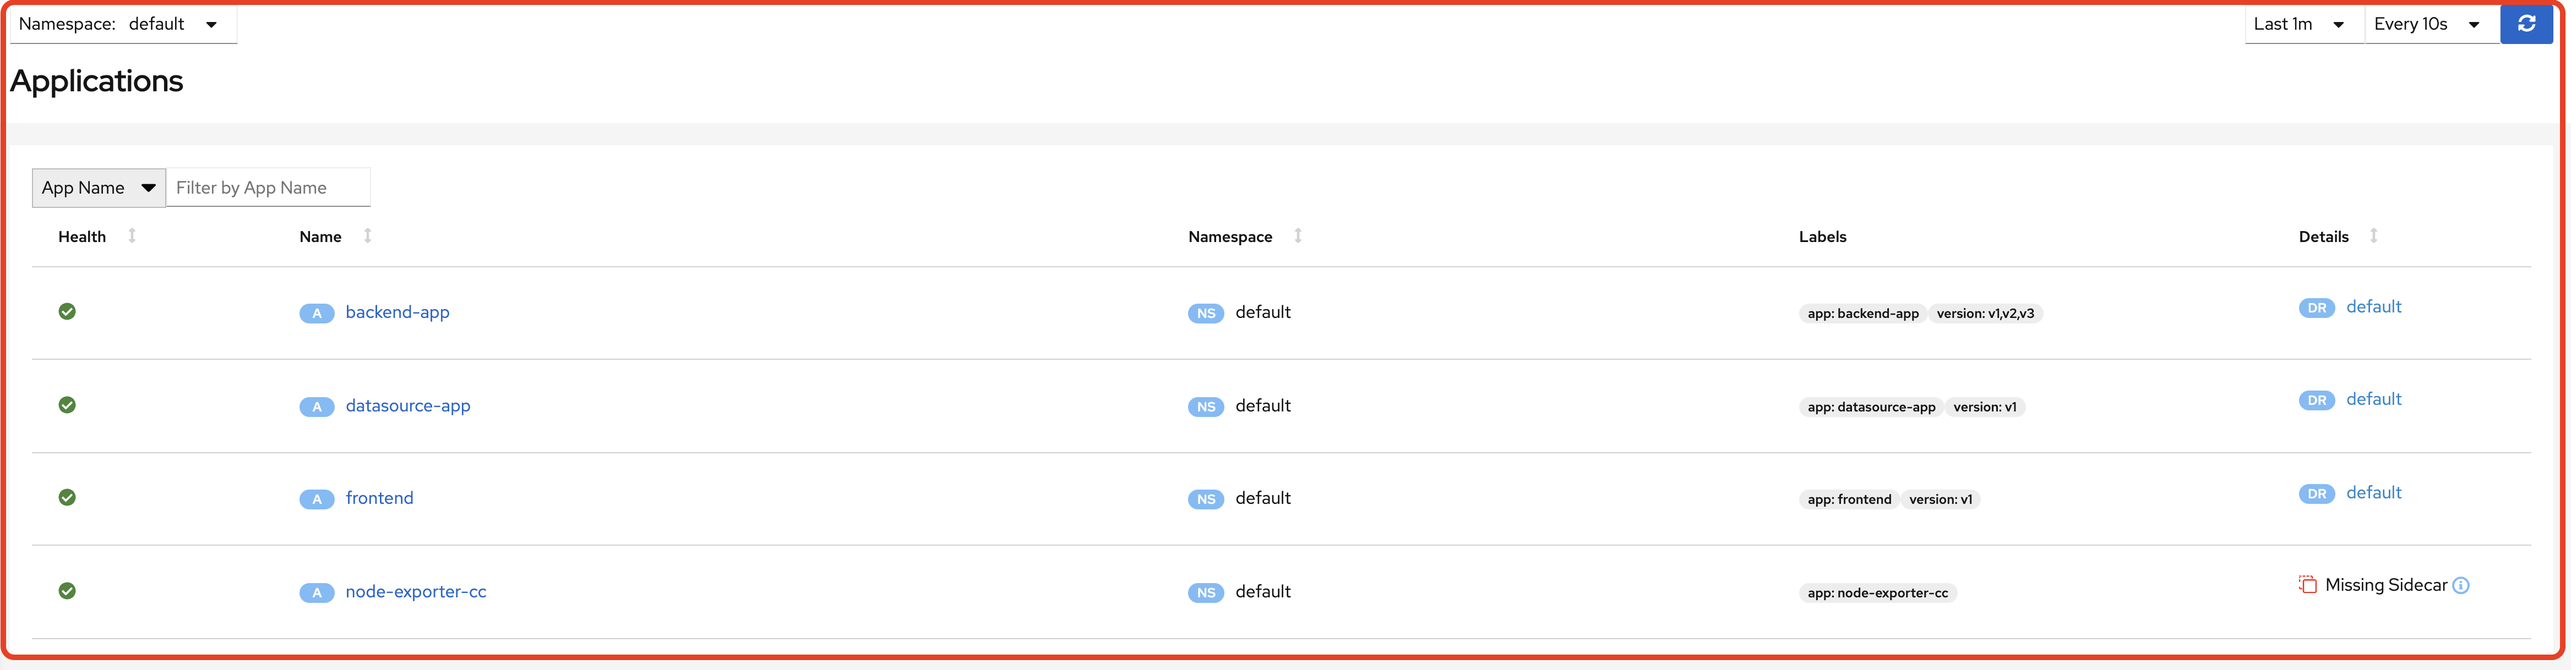
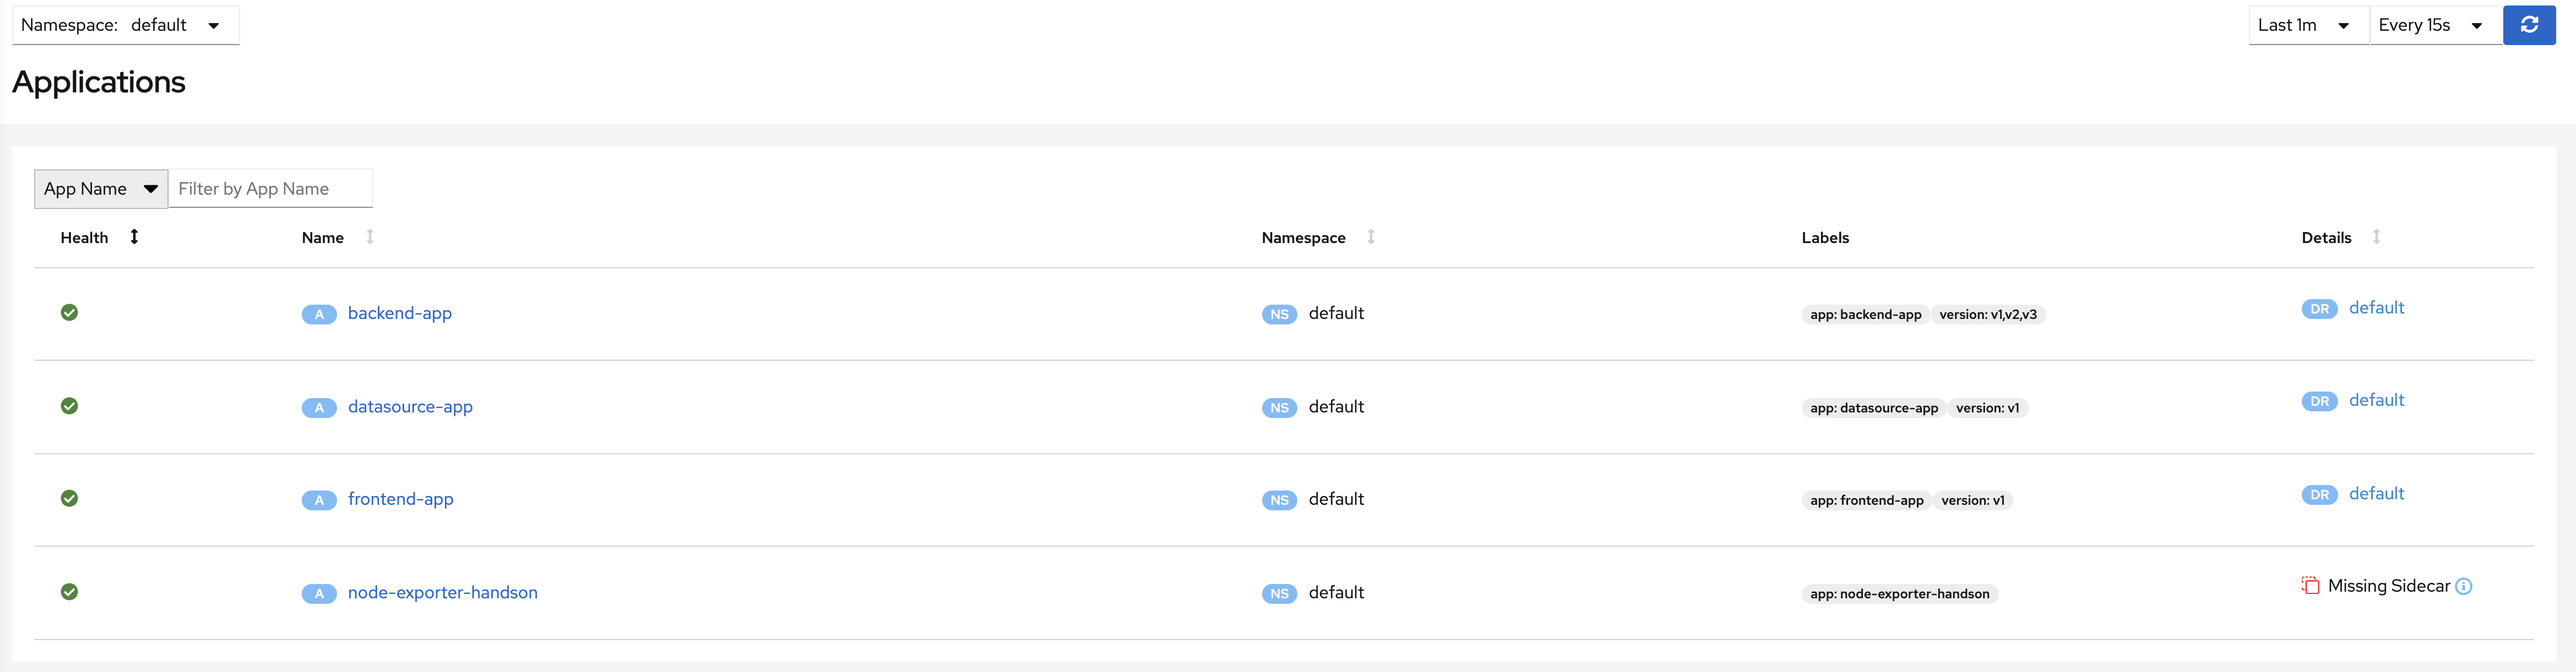
review fixed

diff --git a/tutorials/_cloud-native/oke-for-advances.md b/tutorials/_cloud-native/oke-for-advances.md
@@ -531,7 +531,7 @@ service/node-exporter-handson created
 daemonset.apps/node-exporter-handson created
 ```
 
-node-exporter-ccというPodの「STATUS」が「Running」であることを確認します。
+`node-exporter-handson`というPodの「STATUS」が「Running」であることを確認します。
 
 ```sh
 kubectl get pods
@@ -1256,8 +1256,8 @@ destinationrule.networking.istio.io/datasource created
 KubernetesのServiceリソースが確認できます。  
 `Deatails`には、Serviceリソースに紐づく`DestinationRule`が確認できるようになっています。 
 
-**`node-exporter-cc`について**  
-`node-exporter-cc`の`Deatails`欄に![](3-032.png)というマークがありますが、今回のハンズオンの動作には影響しませんので、無視してください。 
+**`node-exporter-handson`について**  
+`node-exporter-handson`の`Deatails`欄に![](3-032.png)というマークがありますが、今回のハンズオンの動作には影響しませんので、無視してください。 
 {: .notice--info}
 
 次に`Workload`を確認します。  
@@ -1268,8 +1268,8 @@ KubernetesのServiceリソースが確認できます。
 
 ここには、デプロイ済みのDeploymentリソースが表示されます。
 
-**`node-exporter-cc`について**  
-`node-exporter-cc`の`Deatails`欄に![](3-032.png)![](3-033.png)というマークがありますが、今回のハンズオンの動作には影響しませんので、無視してください。 
+**`node-exporter-handson`について**  
+`node-exporter-handson`の`Deatails`欄に![](3-032.png)![](3-033.png)というマークがありますが、今回のハンズオンの動作には影響しませんので、無視してください。 
 {: .notice--info}
 
 次に`Application`を確認します。  
@@ -1281,8 +1281,8 @@ KubernetesのServiceリソースが確認できます。
 
 ![](3-023.png)
 
-**`node-exporter-cc`について**  
-`node-exporter-cc`の`Deatails`欄に![](3-032.png)というマークがありますが、今回のハンズオンの動作には影響しませんので、無視してください。 
+**`node-exporter-handson`について**  
+`node-exporter-handson`の`Deatails`欄に![](3-032.png)というマークがありますが、今回のハンズオンの動作には影響しませんので、無視してください。 
 {: .notice--info}
 
 `backend-app`をクリックしてみると、以下のような画面が表示されます。  
